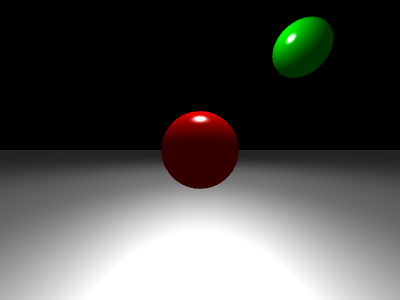
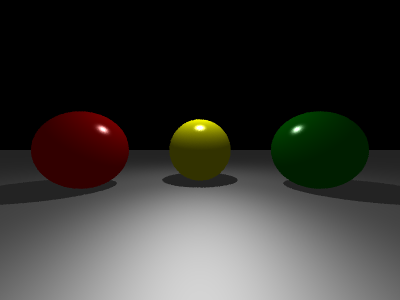
Implementação de sombras
O código de instanciação do plano e sua interseção com raios precisa ser corrigido

diff --git a/light.py b/light.py
@@ -3,6 +3,7 @@ import utils
 import color as colors
 
 from ray import Ray
+from hit import Hit
 
 class Light:
     def __init__(self, position:np.ndarray, power:float, shape=None, color:np.ndarray = colors.WHITE) -> None:
@@ -15,12 +16,47 @@ class Light:
         light_dir = utils.normalize(self.position - hit.point)
         shadow_ray = Ray(hit.point, light_dir)
 
-        shadow_hit = world.get_nearest_light_hit(shadow_ray, self)
+        # r = utils.distance(hit.point, self.position)
+        # light_intensity = self.power / pow(r, 2)
 
-        if shadow_hit:
-            r = utils.distance(hit.point, self.position)
-            light_intensity = self.power / pow(r, 2)
+        # return (light_intensity,light_dir)
 
-            return (light_intensity,light_dir)
-        else:
-            return (colors.BLACK, colors.BLACK)
+        # Check intersections
+        # shadow_hit = None
+
+        for hittable in world.hittables:
+            shadow_hit = hittable.intersects(shadow_ray)
+            # if isinstance(hit_evaluation, Light):
+            #     print(f"Light!")
+
+            if shadow_hit is not None:
+                return (colors.BLACK, colors.BLACK)
+        
+        r = utils.distance(hit.point, self.position)
+        light_intensity = self.power / pow(r, 2)
+
+        return (light_intensity,light_dir)
+        
+    def distance_to_origin(self, camera_center:np.ndarray = np.array([0.0, 0.0, 0.0])):
+        return utils.distance(camera_center, self.position)
+    
+    def intersects(self, ray:Ray) -> 'Light | None':
+        # Calcula o vetor do ponto de origem até o ponto dado
+        vetor_ponto = self.position - ray.origin
+        
+        # Calcula o parâmetro 't' usando a projeção do vetor do ponto na direção do raio
+        t = np.dot(vetor_ponto, ray.origin)
+        
+        # Verifica se o ponto está na direção do raio
+        if t >= 0:
+            # Calcula a posição no raio correspondente a 't'
+            ponto_no_raio = ray.origin + t * ray.direction
+            
+            # Calcula a distância entre o ponto dado e o ponto no raio
+            distancia = np.linalg.norm(self.position - ponto_no_raio)
+            
+            # Se a distância for muito próxima de zero, consideramos que o ponto está no raio
+            if np.isclose(distancia, utils.HIT_TOLERANCE):
+                return self
+        
+        return None

diff --git a/main.py b/main.py
@@ -14,20 +14,28 @@ def main():
     world = World(
         hittables=[
             Hittable(
-                surface=Sphere(np.array([0.0, 0.0, -2.0]), 0.5),
-                material=Material(colors.RED, 0.2, 0.5, 50.0, debug=False)
+                surface=Sphere(np.array([0.0, 0.0, -2.5]), 0.5),
+                material=Material(colors.YELLOW, 0.2, 0.5, 50.0, debug=False)
             ),
             Hittable(
-                surface=Sphere(np.array([2.0, 2.0, -3.0]), 0.5),
-                material=Material(colors.GREEN, 0.1, 0.5, 50.0, debug=False)
+                surface=Sphere(np.array([1.5, 0.0, -2.0]), 0.5),
+                material=Material(colors.DARK_GREEN, 0.1, 0.5, 50.0, debug=False)
             ),
+            Hittable(
+                surface=Sphere(np.array([-1.5, 0.0, -2.0]), 0.5),
+                material=Material(colors.RED, 0.1, 0.5, 50.0, debug=False)
+            ),
+            # Hittable(
+            #     surface=Sphere(np.array([0.0, -200.5, -2.0]), 200),
+            #     material=Material(np.array([0.7, 0.7, 0.7]), 0.1, 0.5, 2.0, debug=False)
+            # )
             Hittable(
                 surface=Plane(np.array([0.0, 0.5, 0.0]), np.array([0.0, 1.0, 0.0])),
                 material=Material(np.array([0.7, 0.7, 0.7]), 0.2, 0.5, 2.0, debug=False)
             )
         ],
         lights=[
-            Light(np.array([0.0, 3.0, -2.0]), 30.0)
+            Light(np.array([0.0, 2.0, -2.0]), 10.0)
         ]
     )
 

diff --git a/sphere.py b/sphere.py
@@ -40,6 +40,10 @@ class Sphere:
             root_min:float = (-b - math.sqrt(delta)) / (2.0 * a)
             root_max:float = (-b + math.sqrt(delta)) / (2.0 * a)
 
+            if root_min < 0:
+                return None
+            
+
             # NOTE: Always draw the normal outwards surfaces!
             hit_point:      np.ndarray      = ray.at(root_min)  
             normal_at_hit:  np.ndarray      = normalize((hit_point - self.center) / self.radius)

diff --git a/plane.py b/plane.py
@@ -16,7 +16,7 @@ class Plane:
     def intersects(self, hittable:object, ray:Ray) -> None | Hit:
         denominator:float = np.dot(ray.direction, self.normal)
 
-        if np.abs(denominator) < HIT_TOLERANCE:
+        if abs(denominator) < HIT_TOLERANCE:
             return None
         else:
             ray_plane_point = ray.origin - self.point

diff --git a/color.py b/color.py
@@ -9,4 +9,6 @@ WHITE = np.array([1.0, 1.0, 1.0])
 RED = np.array([1.0, 0.0, 0.0])
 BLUE = np.array([0.0, 0.0, 1.0])
 GREEN = np.array([0.0, 1.0, 0.0])
+DARK_GREEN = np.array([0.0, 0.6, 0.0])
+YELLOW = RED + GREEN
 
